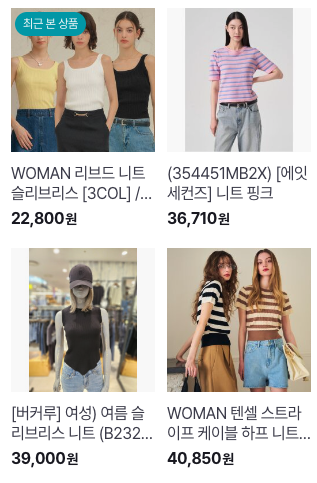
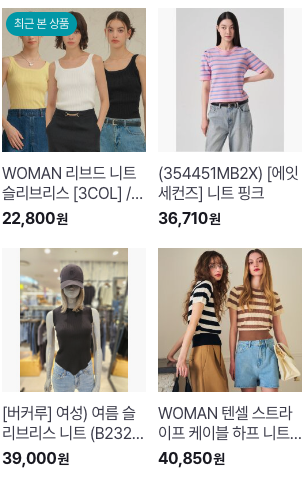
layout fix

diff --git a/css/main_layout_2.css b/css/main_layout_2.css
@@ -96,7 +96,7 @@
   flex-flow: row nowrap;
   overflow-x: scroll;
   width: 95vw;
-  /*margin-left: 5vw;*/
+  margin-left: 5vw;
 }
 
 #link_tables img{
